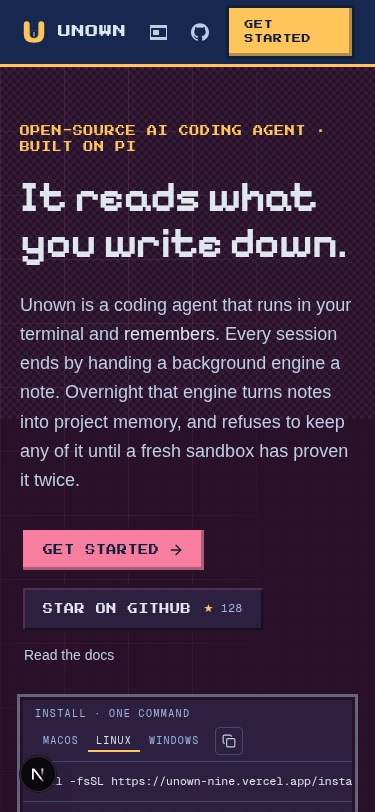
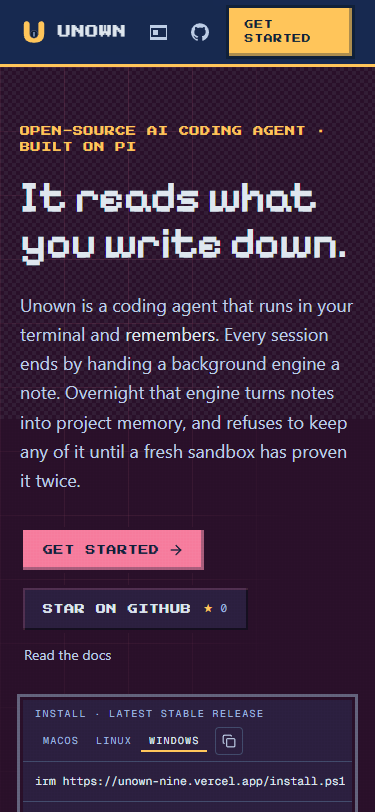
style(landing): the install chip states the release policy; the manual carries the CLI-only lane
The hero chip now reads "install · latest stable release" (no version literal
to go stale), and the collapsed manual sequence adds the verified CLI-only
lane beside the full source install — explicitly noting it has no engine or
learning stack. Copy tests pin the new note, both binary invocations, the
single <pre> rule and the unchanged OS-tab commands; the folder contract and
the landing research record follow. OG screenshots regenerated.

diff --git a/src/components/landing/hero.tsx b/src/components/landing/hero.tsx
@@ -25,8 +25,8 @@ const WORD: GlyphId[] = ["U", "N", "O", "W", "N"];
 /* ------------------------------------------------------------------ */
 
 /**
- * The command-by-command install sequence. Byte-identical to the README
- * quickstart and docs/install.md — the hero's one-liner chip is the fast
+ * The command-by-command install sequence. Mirrors the README quickstart and
+ * docs/install.md's manual section — the hero's one-liner chip is the fast
  * path, this is the manual one, and it lives collapsed behind the chip so
  * the fast path stays the default.
  */
@@ -35,7 +35,7 @@ const INSTALL = [
   "cd Unown",
   "bun run agent:install     # deps + pi build + .env",
   "unown setup               # connect any model",
-  "bun run agent:start       # engine :3030 + bridge :3031 + dashboard :3000",
+  "bun run agent:start       # engine :3030 + bridge :3031",
   "unown                     # first session — notes queue for the engine",
 ];
 
@@ -210,9 +210,10 @@ export function Hero() {
             {/* Install. For a clone-and-run tool the command is the conversion,
                 so it sits above the fold rather than at the bottom of the page:
                 one copyable chip per OS tab (macOS/Linux get the one-line
-                installer, which bootstraps bun itself; Windows gets the clone
-                path, since a fresh Windows box has no sh), and the chain that
-                follows either command. The tabbed panel is a client island so
+                installer; Windows gets its PowerShell one-liner,
+                public/install.ps1 — both install the newest stable release tag,
+                check git and bootstrap bun), and the chain that follows either
+                command. The tabbed panel is a client island so
                 the chip stays server-rendered around it. The full
                 command-by-command sequence is the expander below. */}
             <div id="quickstart" className="scroll-mt-24">
@@ -279,6 +280,23 @@ export function Hero() {
                     );
                   })}
                 </div>
+                {/* the CLI-only lane: an instruction beside the source
+                    sequence, never the chip's command and never the chain —
+                    the binary ships no engine or learning stack. */}
+                <p className="mt-3 border-t border-line pt-2.5 font-mono text-[11px] leading-relaxed text-dim">
+                  <span className="gb-label text-[9px] text-gold">cli only</span>{" "}
+                  no git, no bun:{" "}
+                  <code className="break-words font-mono text-ink">
+                    curl -fsSL https://unown-nine.vercel.app/install.sh | sh -s -- --binary
+                  </code>{" "}
+                  (macOS/Linux) or{" "}
+                  <code className="break-words font-mono text-ink">
+                    irm https://unown-nine.vercel.app/install.ps1 -OutFile install.ps1;
+                    .\install.ps1 -Binary
+                  </code>{" "}
+                  (Windows). It installs the terminal agent alone; the engine and learning
+                  stack need the full install above.
+                </p>
                 <p className="mt-3 border-t border-line pt-2.5 text-[12px] leading-relaxed text-faint">
                   {PREREQS}
                 </p>

diff --git a/src/components/landing/install-panel.tsx b/src/components/landing/install-panel.tsx
@@ -12,9 +12,9 @@ export type OsKey = "macos" | "linux" | "windows";
 /**
  * The one-line installer (`public/install.sh`, served by the site deployment,
  * documented in docs/install.md): refuses root, checks git, adds bun when it
- * is missing, clones, and runs the repo's own installer. macOS and Linux both
- * speak sh, so both tabs carry the same command — their sandbox backends are
- * what differ.
+ * is missing, clones the newest STABLE release tag, and runs the repo's own
+ * installer. macOS and Linux both speak sh, so both tabs carry the same
+ * command — their sandbox backends are what differ.
  */
 const INSTALLER_ONE_LINER =
   "curl -fsSL https://unown-nine.vercel.app/install.sh | sh";
@@ -22,22 +22,15 @@ const INSTALLER_ONE_LINER =
 /**
  * The Windows one-liner installer (public/install.ps1 — same contract as the
  * POSIX script: refuses elevation, checks git, adds bun via bun's own
- * PowerShell installer when missing, clones, runs agent:install).
+ * PowerShell installer when missing, clones the newest stable release tag,
+ * runs agent:install).
  */
 const INSTALLER_ONE_LINER_PS =
   "irm https://unown-nine.vercel.app/install.ps1 | iex";
 
 /**
- * The manual path, byte-identical to the README quickstart and
- * docs/install.md's manual section — every OS tab carries it as the
- * alternative (docs/install.md#manual-install-git-clone).
- */
-const MANUAL_ONE_LINER =
-  "git clone https://github.com/kanishka-namdeo/Unown.git && cd Unown && bun run agent:install";
-
-/**
- * Sandbox backends quoted from the page's own prerequisite table
- * (`quickstart.tsx`), which the engine implements per platform:
+ * Sandbox backends quoted from the page's own prerequisite line (`hero.tsx`
+ * `PREREQS`), which the engine implements per platform:
  * `resolveOsSandboxBackend()` in `pi-repo/packages/self-learning/src/bwrap.ts`
  * returns bwrap on Linux, seatbelt on darwin, and null on win32 (where the
  * in-process path jail runs). Same three facts the page has always claimed —
@@ -117,7 +110,11 @@ export function detectOS(platform: string | undefined, ua: string): OsKey {
 /* ------------------------------------------------------------------ */
 
 /**
- * The hero's install chip, one command per OS tab.
+ * The hero's install chip, one command per OS tab. The label names the
+ * installer's default-version policy — the newest stable release tag — and
+ * deliberately carries no version literal, which would go stale between
+ * releases. The CLI-only binary lane (`--binary` / `-Binary`) is a different
+ * install and lives in the hero's manual expander, never on this chip.
  *
  * Server-rendered default is macOS, so the static HTML and the first client
  * render agree (no hydration mismatch); after mount the tab auto-switches to
@@ -171,7 +168,7 @@ export function InstallPanel() {
     <div className="gb-panel mt-8 max-w-xl overflow-hidden">
       <div className="flex flex-wrap items-center justify-between gap-x-3 gap-y-1.5 border-b border-line px-3 py-1.5">
         <span className="font-mono text-[10px] uppercase tracking-[0.14em] text-faint">
-          install · one command
+          install · latest stable release
         </span>
         <div className="flex items-center gap-2">
           <div

diff --git a/src/components/landing/__tests__/quickstart.test.tsx b/src/components/landing/__tests__/quickstart.test.tsx
@@ -2,11 +2,11 @@
 //
 // The changed-line coverage gate (scripts/check_coverage.mjs) flags landing
 // edits that no test exercises — this file pins the user-visible claims of
-// the quickstart surface (install commands, per-OS prerequisites incl. the
-// sandbox ladder, command surface) so landing edits stay covered. The
-// quickstart used to be its own section; the 2026-10-20 merge folded it
-// into the hero as collapsed <details> expanders, which is why these
-// assertions now render <Hero />.
+// the quickstart surface (install commands, the CLI-only binary lane, per-OS
+// prerequisites incl. the sandbox ladder, command surface) so landing edits
+// stay covered. The quickstart used to be its own section; the 2026-10-20
+// merge folded it into the hero as collapsed <details> expanders, which is
+// why these assertions now render <Hero />.
 //
 // Rendered under the global happy-dom preload (bunfig.toml [test] preload →
 // src/test-dom-setup.ts), same as the dashboard component tests. FadeUp's
@@ -62,6 +62,25 @@ describe("landing quickstart (hero expanders)", () => {
       const escaped = line.replace(/[.*+?^${}()|[\]\\]/g, "\\$&");
       expect(screen.getAllByText(new RegExp(escaped)).length).toBeGreaterThan(0);
     }
+  });
+
+  test("names the CLI-only binary lane as a separate install, not the chain", () => {
+    setUA("Mozilla/5.0 (Macintosh; Intel Mac OS X 10_15_7) AppleWebKit/537.36");
+    const { container } = render(<Hero />);
+    const text = container.textContent ?? "";
+    // The manual expander carries the binary lane as an instruction with the
+    // two real invocations from public/install.sh and public/install.ps1.
+    expect(text).toContain("cli only");
+    expect(text).toContain("no git, no bun");
+    expect(text).toContain("install.sh | sh -s -- --binary");
+    expect(text).toContain("-OutFile install.ps1");
+    expect(text).toContain(".\\install.ps1 -Binary");
+    // and states the scope: the terminal agent alone. The engine/learning
+    // stack stays on the source chain above (unown setup → agent:start → unown).
+    expect(text).toContain("installs the terminal agent alone");
+    expect(text).toContain("the engine and learning stack need the full install above");
+    // the lane is prose plus inline <code>, not a second terminal block
+    expect(container.querySelectorAll("pre")).toHaveLength(1);
   });
 
   test("states the three-OS prerequisite and the sandbox ladder", () => {

diff --git a/src/components/landing/__tests__/landing-copy.test.tsx b/src/components/landing/__tests__/landing-copy.test.tsx
@@ -89,6 +89,21 @@ describe("landing hero", () => {
     expect(container.querySelectorAll("pre")).toHaveLength(1);
   });
 
+  test("the chip names its default-version policy without a version literal", () => {
+    setUA(MAC_UA);
+    render(<Hero />);
+    // Both one-liners install the newest STABLE release tag (install.sh
+    // resolves `git ls-remote --tags --refs --sort=-v:refname`; install.ps1
+    // does the same). The label says so; a version number would go stale.
+    const label = screen.getByText("install · latest stable release");
+    expect(label).toBeTruthy();
+    const chip = label.closest(".gb-panel");
+    expect(chip?.textContent ?? "").not.toMatch(/\bv?\d+\.\d+\.\d+\b/);
+    // the CLI-only binary lane is a different install and stays out of the
+    // one-command-per-OS chip; the manual expander carries it (quickstart test)
+    expect(chip?.textContent ?? "").not.toContain("--binary");
+  });
+
   test("the tabs follow the WAI-ARIA pattern and exactly one is selected", () => {
     setUA(MAC_UA);
     const { container } = render(<Hero />);

diff --git a/src/components/landing/AGENTS.md b/src/components/landing/AGENTS.md
@@ -635,27 +635,37 @@ parallel ones.
   reveals re-trigger when a pane is shown. Do not switch to unmounting
   panes without a plan for the generated numbers.
 - **Install first (2026-10-19 rework; OS tabs the same day; quickstart folded
-  in 2026-10-20): the hero carries one command per OS tab, and the manual
-  sequence lives collapsed right under it.** For a clone-and-run tool the
-  command is the conversion, so the hero's chip is a three-tab install
-  panel (`install-panel.tsx`, a client island inside the server-rendered
-  hero — it must stay one, or StarCount stops being an RSC): macOS and
-  Linux show the one-line installer (`curl … install.sh | sh`, which
-  refuses root, checks git and bootstraps bun itself), Windows shows the
-  clone path (`git clone … && bun run agent:install` — a fresh Windows box
-  has no sh) with the bun prerequisite and the sandbox reality in the tab's
-  note line. The tab auto-defaults from the user agent (`detectOS()`,
-  pinned branch by branch) and never gates: every tab is one click away,
-  the `unown setup → bun run agent:start → unown` chain is printed under
-  all of them, and a `<details>` delegation prompt serves visitors who
-  would rather have their existing coding agent run the install (the
-  pattern ollama.com/download ships). The tab notes may only quote the
-  sandbox trio the page already claims — bubblewrap / Seatbelt /
-  in-process jail, with `resolveOsSandboxBackend()` in
-  `pi-repo/packages/self-learning/src/bwrap.ts` as the source of truth —
-  the chip must never grow back into a command wall (exactly one `<pre>`
-  in the hero, pinned), and the delegation prompt is an instruction (every
-  command in it is real), not a claim. Research receipts:
+  in 2026-10-20; installer default + binary lane 2026-10-21): the hero carries
+  one command per OS tab, and the manual sequence lives collapsed right under
+  it.** For a clone-and-run tool the command is the conversion, so the hero's
+  chip is a three-tab install panel (`install-panel.tsx`, a client island
+  inside the server-rendered hero — it must stay one, or StarCount stops being
+  an RSC): macOS and Linux show the one-line installer (`curl … install.sh |
+  sh`, which refuses root, checks git and bootstraps bun itself); Windows
+  shows its own PowerShell one-liner (`irm … install.ps1 | iex` — the same
+  contract: refuses elevation, checks git, bootstraps bun via bun's own
+  installer), with the sandbox reality in the tab's note line. Both default to
+  the newest **stable release tag**, not `main` (`--main` / `-Main` is the
+  explicit edge install; `--version` / `-Version` pins a tag). The chip's label
+  states that policy ("install · latest stable release") and carries no
+  version literal, which would go stale. The tab auto-defaults from the user
+  agent (`detectOS()`, pinned branch by branch) and never gates: every tab is
+  one click away, the `unown setup → bun run agent:start → unown` chain is
+  printed under all of them — it is the source-stack chain — and a `<details>`
+  delegation prompt serves visitors who would rather have their existing
+  coding agent run the install (the pattern ollama.com/download ships). The
+  manual `<details>` also carries the CLI-only binary lane as one instruction
+  beside the source sequence (`sh install.sh --binary` or
+  `.\install.ps1 -Binary`: verified download, no git, no bun) and says
+  explicitly that it installs the terminal agent alone — the engine and
+  learning stack need the full install. It is never the chip's command and
+  never the chain. The tab notes may only quote the sandbox trio the page
+  already claims — bubblewrap / Seatbelt / in-process jail, with
+  `resolveOsSandboxBackend()` in
+  `pi-repo/packages/self-learning/src/bwrap.ts` as the source of truth — the
+  chip must never grow back into a command wall (exactly one `<pre>` in the
+  hero, pinned), and the delegation prompt is an instruction (every command in
+  it is real), not a claim. Research receipts:
   `docs/landing-research.md`, "2026-10-19 — install and try first",
   "2026-10-19 — the OS tabs, after all" and "2026-10-20 — the eight-band
   compression".

diff --git a/docs/landing-research.md b/docs/landing-research.md
@@ -1478,7 +1478,7 @@ thing that actually differs: macOS and Linux carry `curl -fsSL
 https://unown-nine.vercel.app/install.sh | sh` — the documented one-line
 installer (docs/install.md), which refuses root, checks git and bootstraps bun
 itself, and is a shorter line than the clone path into the bargain — while
-Windows carries the clone path plus the bun prerequisite, because a fresh
+Windows carried the clone path plus the bun prerequisite, because a fresh
 Windows box has no sh (docs/windows.md). Each tab's note line quotes one of
 the three sandbox facts the page already claims in quickstart's prerequisite
 table (bubblewrap / Seatbelt / in-process jail), verified against
@@ -1491,6 +1491,41 @@ three. The chip stays one `<pre>` — the hero did not grow a command wall, it
 grew a chooser. One implementation constraint worth remembering: the panel is
 a client island (`install-panel.tsx`) precisely so `StarCount` can stay an
 async RSC in the server-rendered hero.
+
+**Correction, 2026-10-21.** Windows no longer carries the clone path:
+`public/install.ps1` shipped as the `irm | iex` twin of the POSIX script, so
+the Windows tab is now one command like the other two — refuses elevation,
+checks git, bootstraps bun via bun's own PowerShell installer, clones, runs
+`agent:install`. The manual clone sequence remains one expander below the
+chip. `__tests__/landing-copy.test.tsx` pins the PowerShell one-liner and the
+absence of the POSIX command on that tab.
+
+**Correction, 2026-10-21 — the installer default and the CLI-only binary lane.**
+The one-liners now install the newest **stable release tag**, not `main`:
+`public/install.sh` resolves it with `git ls-remote --tags --refs
+--sort=-v:refname`; `public/install.ps1` does the same. `--main` / `-Main` is
+the explicit edge install, and `--version` / `-Version` pins a stable tag. The
+chip's label names the policy ("install · latest stable release") instead of a
+version literal that would go stale; the commands did not move — still one per
+OS tab, exactly one `<pre>` in the hero.
+
+The scripts gained a CLI-only lane: `sh install.sh --binary` and
+`.\install.ps1 -Binary` download the release archive, verify its SHA-256
+against that release's `sha256sums.txt`, and install atomically under
+`UNOWN_INSTALL_ROOT/versions/<version>/` with a PATH shim and
+`~/.unown/install.json`; `unown update`, `--check`, `--rollback` and
+`uninstall` work against that layout
+(`pi-repo/packages/self-learning/src/install-layout.ts`, `bin-update.ts`).
+It is the terminal agent only — no engine, llm-bridge or learning stack — so
+the page's manual expander states that limit and never presents the lane as
+the source chain. Verified by the release workflow's `smoke-install` matrix
+(`.github/workflows/release.yml`, ubuntu/macOS/Windows), which installs the
+published archive with `--binary --version <tag>`, asserts `--version` matches
+the tag, `update --check` exits 0 or 2, and `uninstall --dry-run` runs. The
+source default has no equivalent automated run yet, recorded here rather than
+implied. `__tests__/landing-copy.test.tsx` and
+`__tests__/quickstart.test.tsx` pin the label, both binary invocations and
+the CLI-only scope.
 
 **The six-at-zero run.** The install-first rework recorded, rather than
 fixed, the run of six technical sections between the lore carriers (positions
